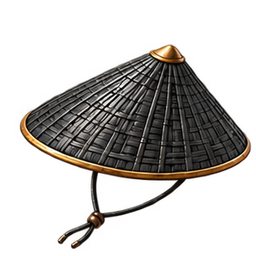
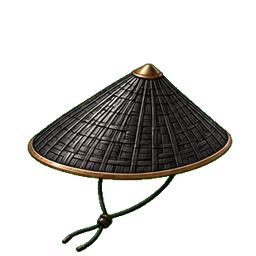
Rebuild He Xiangu hat-to-seal transition

Changed region(s): [[0.0625, 0.1562, 1.0, 1.0]]

diff --git a/design/Baxian/bubble-elements-v2/transitions/he-xiangu/prepare_sheet.py b/design/Baxian/bubble-elements-v2/transitions/he-xiangu/prepare_sheet.py
@@ -1,0 +1,32 @@
+#!/usr/bin/env python3
+"""Convert the He Xiangu ImageGen chroma sheet to true alpha."""
+
+from pathlib import Path
+from PIL import Image
+
+
+ROOT = Path(__file__).resolve().parent
+SOURCE = ROOT / "source" / "imagegen-sheet-chroma.png"
+OUTPUT = ROOT / "source" / "imagegen-sheet.png"
+
+
+def main() -> None:
+    image = Image.open(SOURCE).convert("RGBA")
+    pixels = []
+    for red, green, blue, _ in image.getdata():
+        dominance = green - max(red, blue)
+        if green >= 170 and dominance >= 105:
+            alpha = 0
+        elif green >= 135 and dominance >= 65:
+            alpha = max(0, min(255, round(255 * (105 - dominance) / 40)))
+        else:
+            alpha = 255
+        if 0 < alpha < 255:
+            green = min(green, max(red, blue) + 12)
+        pixels.append((red, green, blue, alpha))
+    image.putdata(pixels)
+    image.save(OUTPUT, optimize=True)
+
+
+if __name__ == "__main__":
+    main()

diff --git a/design/Baxian/bubble-elements-v2/transitions/build.py b/design/Baxian/bubble-elements-v2/transitions/build.py
@@ -21,7 +21,7 @@ CHARACTERS = {
     },
     "he-xiangu": {
         "name": "何仙姑",
-        "motion": "douli updraft → lotus wind ring → light seal unfold",
+        "motion": "black douli turn → pale bubble-pink silk ring → compact pink seal settle",
     },
 }
 FRAME_SIZE = 256

diff --git a/design/Baxian/bubble-elements-v2/README.md b/design/Baxian/bubble-elements-v2/README.md
@@ -50,7 +50,7 @@
 
 - `lv-dongbin/`：剑势顺时针旋转，靛蓝剑风收束，印章斜向落定；
 - `zhongli-quan/`：玉净瓶带重量摇摆，朱红旋云包裹，印章下压落定；
-- `he-xiangu/`：黑斗笠乘风旋起，莲粉风环内折，印章轻盈展开。
+- `he-xiangu/`：黑斗笠轻旋，聊天气泡同款浅粉薄纱风环内折，缩为不规则浅粉小印。
 
 每个角色目录包含：
 
